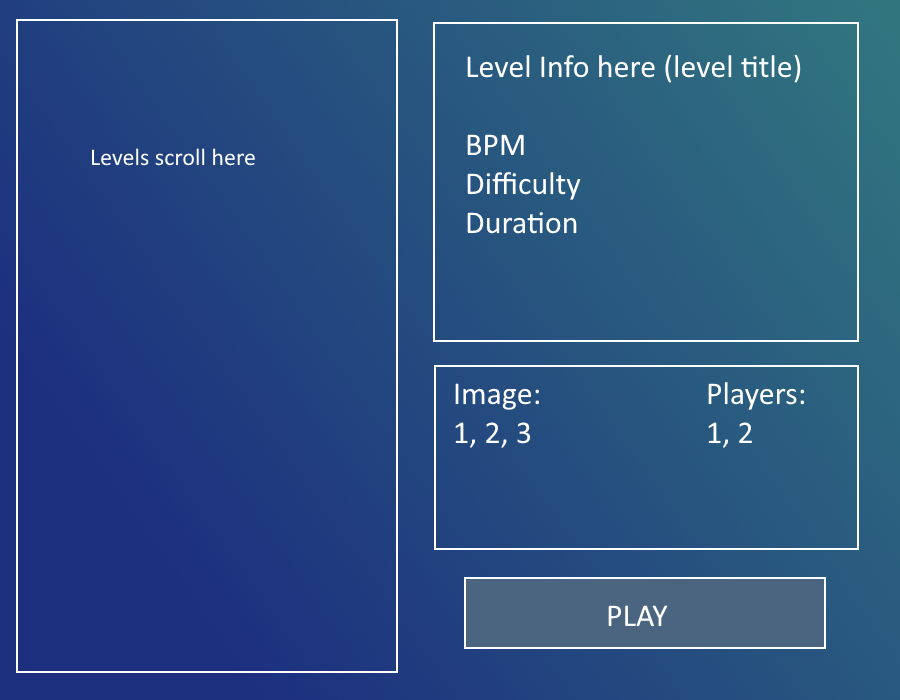
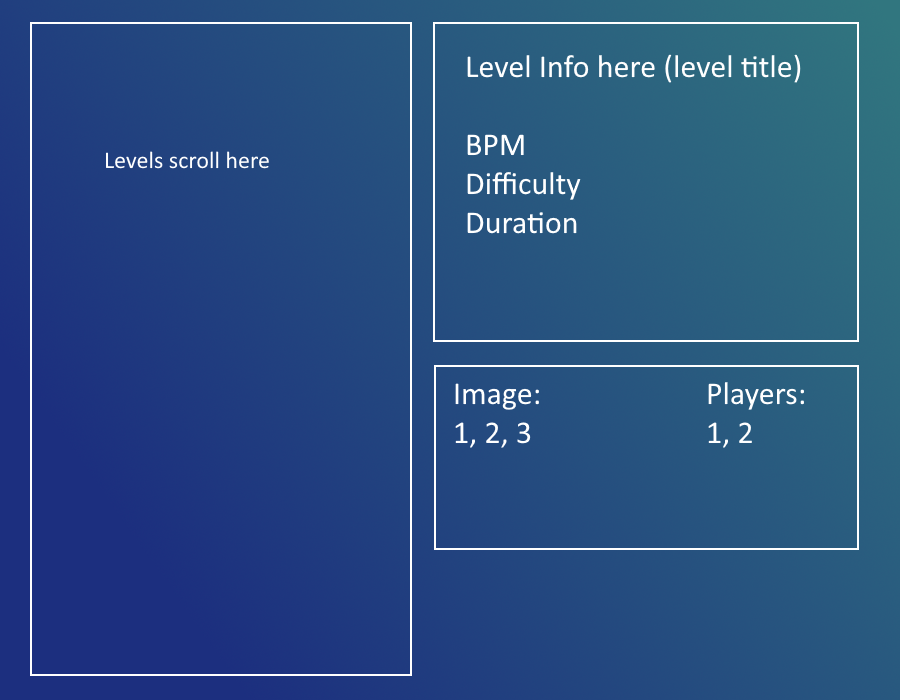
Added "play" button in level select Found bug involving clicked/hover images

diff --git a/Main.py b/Main.py
@@ -75,6 +75,7 @@ while True:
 #LEVEL SELECT
     if mode == "level select":
         LevelOneIcon = Button("LevelOne", [53, 60], "Levels/Icons/")
+        playLevel = Button("playLevel", [441, 569])
         level = ""
         song = ""
     while mode == "level select":
@@ -85,17 +86,20 @@ while True:
                 sys.exit()
             if event.type == pygame.MOUSEMOTION:
                 LevelOneIcon.hover(event.pos)
+                playLevel.hover(event.pos)
             if event.type == pygame.MOUSEBUTTONDOWN:           #BUTTONS!!!
                 LevelOneIcon.clickUp(event.pos)
+                playLevel.clickUp(event.pos)
 
             if event.type == pygame.MOUSEBUTTONUP:
                 if LevelOneIcon.clickUp(event.pos):
                     level = "example.lvl"
                     song = "Levels/Sounds/Rythm smash final 150 Gm.ogg"
-                if quitButton.clickUp(event.pos):
-                    sys.exit()
-                if creditsButton.clickUp(event.pos):
-                    print("credits")
+                if playLevel.clickUp(event.pos):
+                    if level and song != "":
+                        mode = "game"
+
+
             if event.type == pygame.KEYDOWN:
                 if event.key == pygame.K_ESCAPE:
                     mode = "main menu"
@@ -108,6 +112,7 @@ while True:
         mouse = pygame.mouse.get_pos()
         screen.blit(bgImage, bgRect)
         screen.blit(LevelOneIcon.image, LevelOneIcon.rect)
+        screen.blit(playLevel.image, playLevel.rect)
         pygame.display.flip()
         clock.tick(60)
 #GAME
